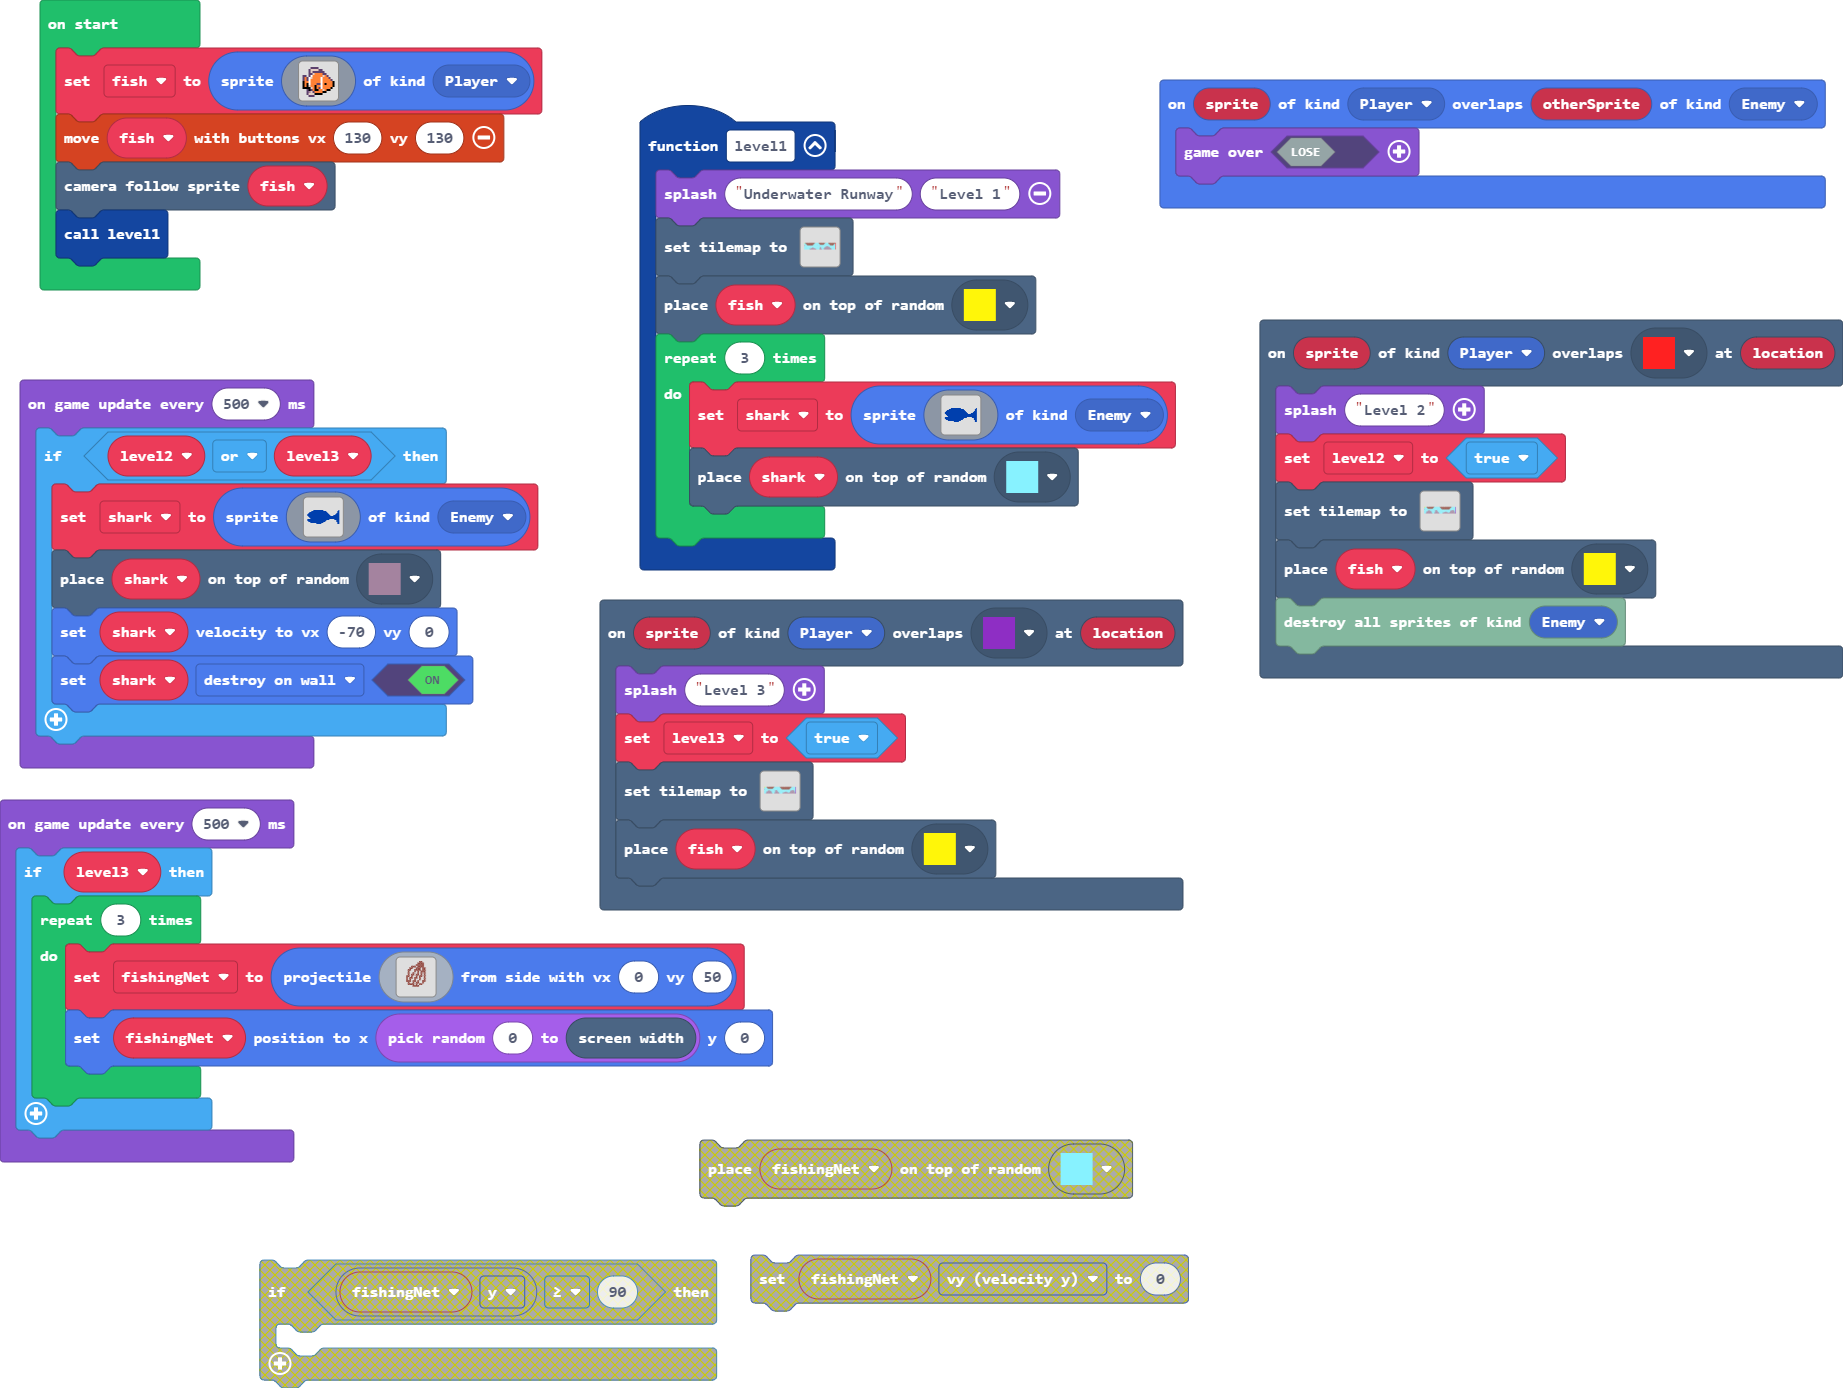
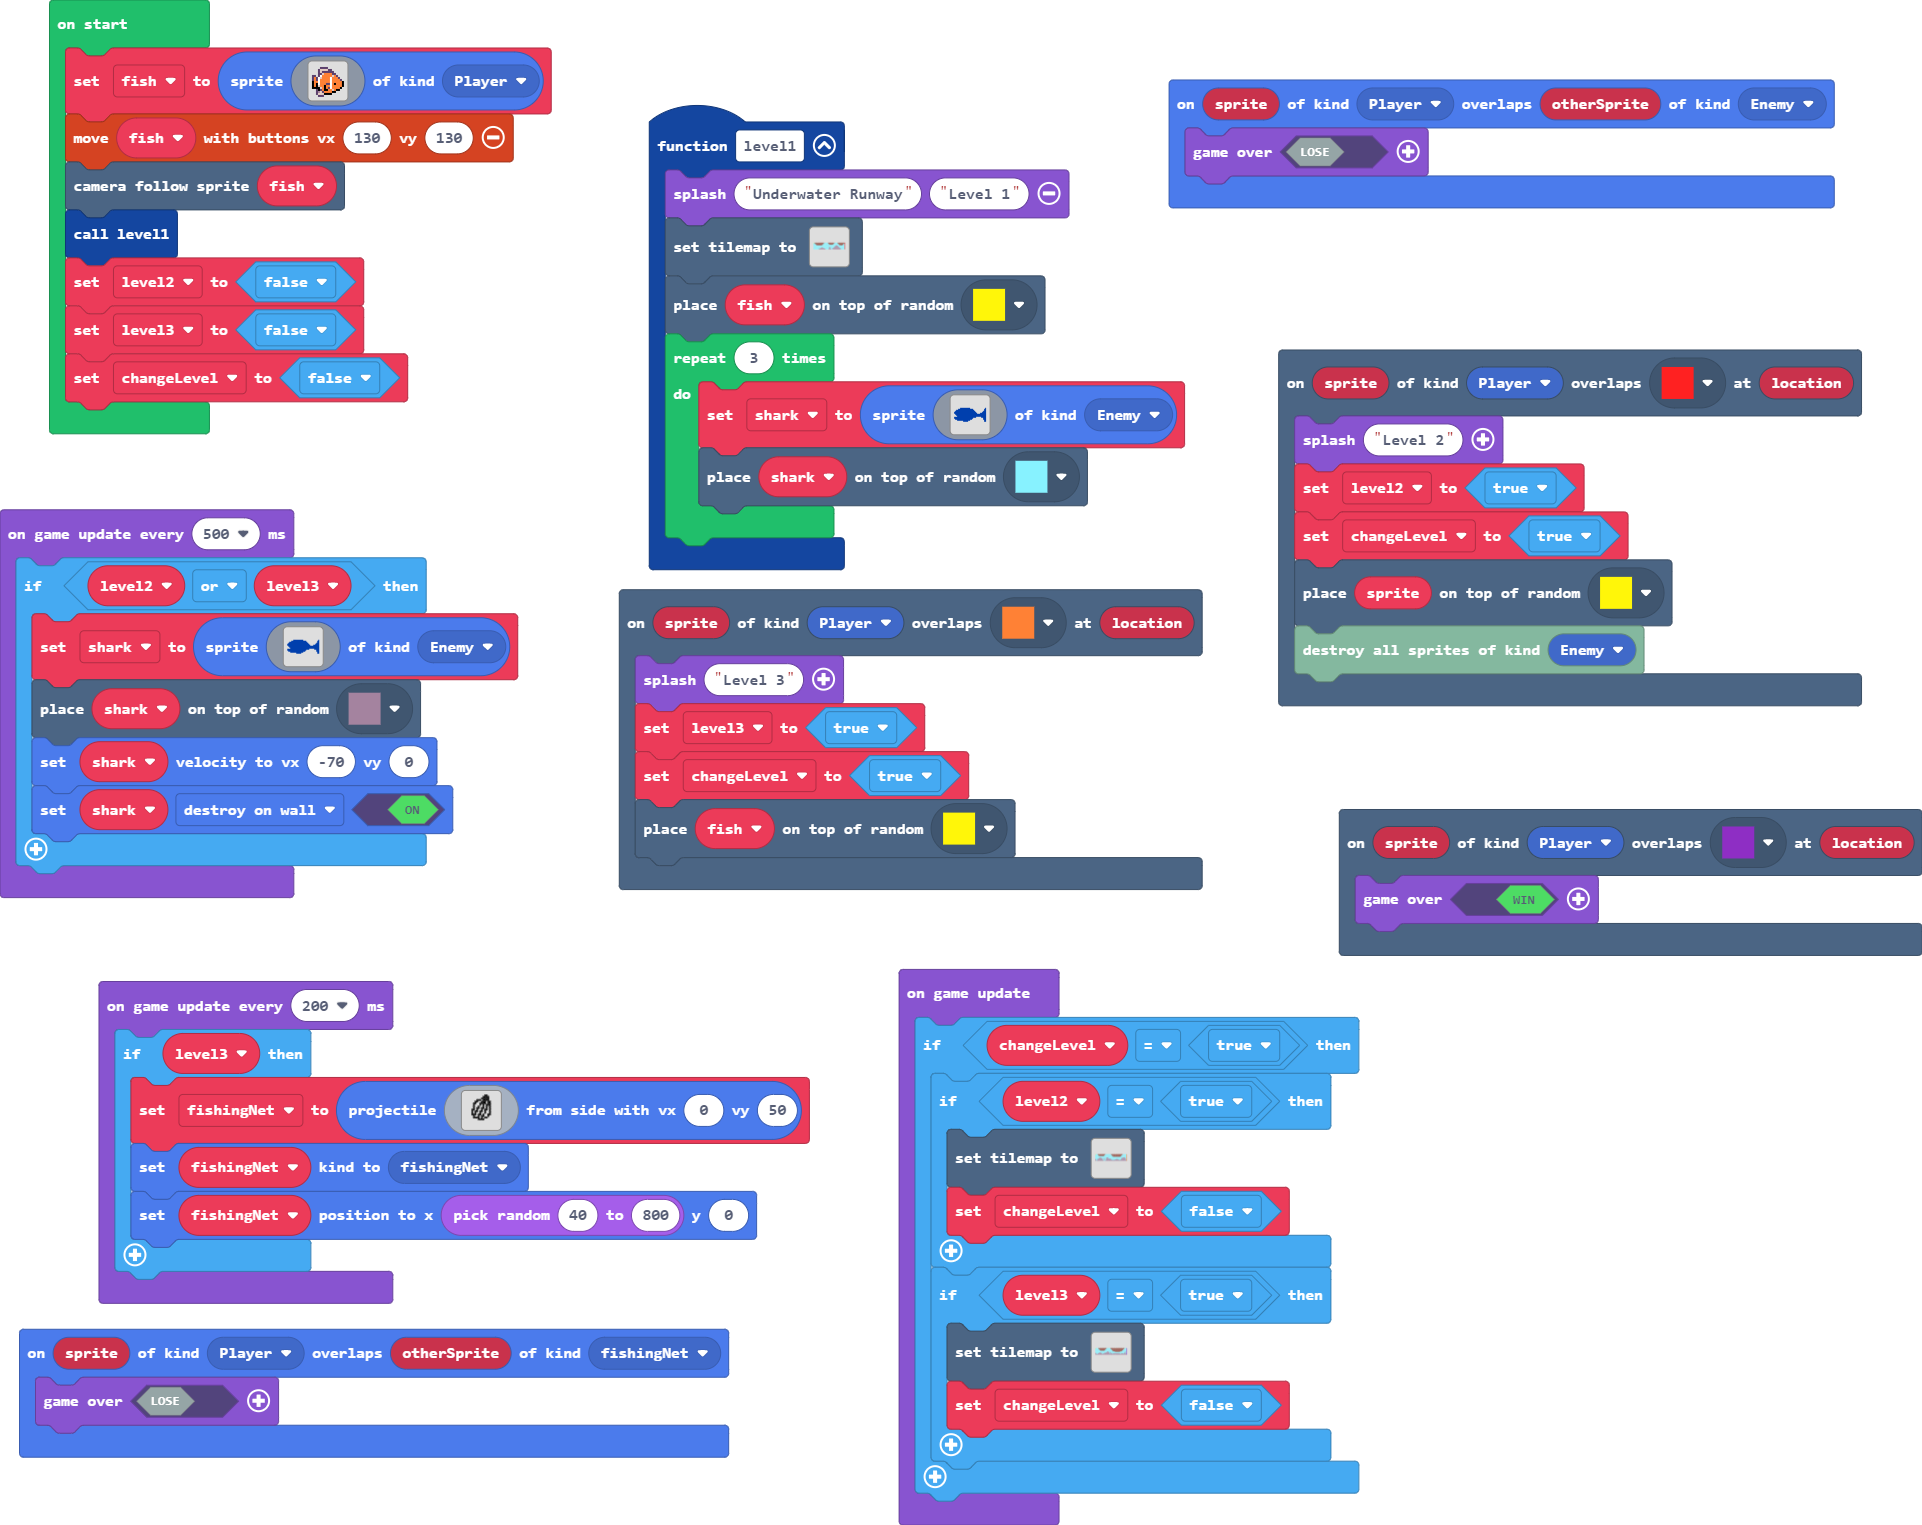
Update main.blocks, main.ts, tilemap.g.jres, tilemap.g.ts

diff --git a/tilemap.g.ts b/tilemap.g.ts
@@ -13,11 +13,11 @@ namespace myTiles {
     //% fixedInstance jres blockIdentity=images._tile
     export const tile5 = image.ofBuffer(hex``);
     //% fixedInstance jres blockIdentity=images._tile
-    export const tile6 = image.ofBuffer(hex``);
-    //% fixedInstance jres blockIdentity=images._tile
     export const tile7 = image.ofBuffer(hex``);
     //% fixedInstance jres blockIdentity=images._tile
     export const tile8 = image.ofBuffer(hex``);
+    //% fixedInstance jres blockIdentity=images._tile
+    export const tile11 = image.ofBuffer(hex``);
 
     helpers._registerFactory("tilemap", function(name: string) {
         switch(helpers.stringTrim(name)) {
@@ -97,19 +97,6 @@ namespace myTiles {
 . . . . . . . . . . . . . . . . 
 . . . . . . . . . . . . . . . . 
 `, [myTiles.transparency16], TileScale.Sixteen);
-            case "level1":
[1 lines of base64/hex data omitted]
-..222222222222222......2222222222.....22222222222.
-...2222222222222........22222222.......222222222..
-....22222222222..........222222.........2222222...
-.....222222222...........................22222....
-..................................................
-...................................222............
-.........................2.......2222222..........
-.............22..........22.....222222222.........
-...........222222........22....222222222222.......
-.........2222222222.....2222...222222222222.......
-`, [myTiles.transparency16,myTiles.tile1,myTiles.tile2,myTiles.tile3,myTiles.tile5,myTiles.tile7], TileScale.Sixteen);
             case "level7":
             case "level7":return tiles.createTilemap(hex`1000100000000000000000000000000000000000000000000000000000000000000000000000000000000000000000000000000000000000000000000000000000000000000000000000000000000000000000000000000000000000000000000000000000000000000000000000000000000000000000000000000000000000000000000000000000000000000000000000000000000000000000000000000000000000000000000000000000000000000000000000000000000000000000000000000000000000000000000000000000000000000000000000000000000000000000000000000000000000000000000000000000000000000000000000000000000000`, img`
 . . . . . . . . . . . . . . . . 
@@ -129,19 +116,83 @@ namespace myTiles {
 . . . . . . . . . . . . . . . . 
 . . . . . . . . . . . . . . . . 
 `, [myTiles.transparency16], TileScale.Sixteen);
+            case "level1":
[1 lines of base64/hex data omitted]
+..222222222222222......2222222222.....22222222222.
+...2222222222222........22222222.......222222222..
+....22222222222..........222222.........2222222...
+.....222222222...........................22222....
+...................................222............
+..................................22222...........
+.........................2.......2222222..........
+.............22..........22.....222222222.........
+...........222222........22...2222222222222.......
+.........2222222222.....2222..2222222222222.......
+`, [myTiles.transparency16,myTiles.tile1,myTiles.tile2,myTiles.tile3,myTiles.tile5,myTiles.tile7], TileScale.Sixteen);
             case "level4":
[2 lines of base64/hex data omitted]
 ....222222222222.........222222222222222222.......
 .....2222222222...........2222222222222222........
 ......22222222.............22222222222222.........
 ............................222222222222..........
 ..................................................
 .......22.........222......................2222...
-......22222......2222....................2222222..
-....22222222......2222............2......2222222..
-....22222222.....222222........222222...22222222..
-...2222222222...22222222.....22222222222222222222.
+......22222...2..2222....................2222222..
+2...22222222..2...2222222.........2......2222222..
+22..22222222..2..222222222.....222222...22222222..
+22.2222222222.2.222222222222222222222222222222222.
+`, [myTiles.transparency16,myTiles.tile1,myTiles.tile2,myTiles.tile3,myTiles.tile7,myTiles.tile11], TileScale.Sixteen);
+            case "level8":
[1 lines of base64/hex data omitted]
+.....2222222222222......2222222222222222222222....
+......22222222222........22222222222222222222.....
+.......222222222..........222222222222222222......
+........2222222............2222222222222222.......
+............................22222222222222........
+...................22..........22222222........2..
+..................2222..2......................2..
+2.....2222.....22222222.2.....................22..
+22...222222..2222222222.222.22222222222..222.222..
+2222222222222222222222222222222222222222222222222.
 `, [myTiles.transparency16,myTiles.tile1,myTiles.tile2,myTiles.tile3,myTiles.tile7,myTiles.tile8], TileScale.Sixteen);
+            case "level9":
+            case "level9":return tiles.createTilemap(hex`1000100000000000000000000000000000000000000000000000000000000000000000000000000000000000000000000000000000000000000000000000000000000000000000000000000000000000000000000000000000000000000000000000000000000000000000000000000000000000000000000000000000000000000000000000000000000000000000000000000000000000000000000000000000000000000000000000000000000000000000000000000000000000000000000000000000000000000000000000000000000000000000000000000000000000000000000000000000000000000000000000000000000000000000000000000000000000`, img`
+. . . . . . . . . . . . . . . . 
+. . . . . . . . . . . . . . . . 
+. . . . . . . . . . . . . . . . 
+. . . . . . . . . . . . . . . . 
+. . . . . . . . . . . . . . . . 
+. . . . . . . . . . . . . . . . 
+. . . . . . . . . . . . . . . . 
+. . . . . . . . . . . . . . . . 
+. . . . . . . . . . . . . . . . 
+. . . . . . . . . . . . . . . . 
+. . . . . . . . . . . . . . . . 
+. . . . . . . . . . . . . . . . 
+. . . . . . . . . . . . . . . . 
+. . . . . . . . . . . . . . . . 
+. . . . . . . . . . . . . . . . 
+. . . . . . . . . . . . . . . . 
+`, [myTiles.transparency16], TileScale.Sixteen);
+            case "level10":
+            case "level10":return tiles.createTilemap(hex`1000100000000000000000000000000000000000000000000000000000000000000000000000000000000000000000000000000000000000000000000000000000000000000000000000000000000000000000000000000000000000000000000000000000000000000000000000000000000000000000000000000000000000000000000000000000000000000000000000000000000000000000000000000000000000000000000000000000000000000000000000000000000000000000000000000000000000000000000000000000000000000000000000000000000000000000000000000000000000000000000000000000000000000000000000000000000000`, img`
+. . . . . . . . . . . . . . . . 
+. . . . . . . . . . . . . . . . 
+. . . . . . . . . . . . . . . . 
+. . . . . . . . . . . . . . . . 
+. . . . . . . . . . . . . . . . 
+. . . . . . . . . . . . . . . . 
+. . . . . . . . . . . . . . . . 
+. . . . . . . . . . . . . . . . 
+. . . . . . . . . . . . . . . . 
+. . . . . . . . . . . . . . . . 
+. . . . . . . . . . . . . . . . 
+. . . . . . . . . . . . . . . . 
+. . . . . . . . . . . . . . . . 
+. . . . . . . . . . . . . . . . 
+. . . . . . . . . . . . . . . . 
+. . . . . . . . . . . . . . . . 
+`, [myTiles.transparency16], TileScale.Sixteen);
         }
         return null;
     })
@@ -159,12 +210,12 @@ namespace myTiles {
             case "tile4":return tile4;
             case "myTile3":
             case "tile5":return tile5;
-            case "myTile4":
-            case "tile6":return tile6;
             case "myTile5":
             case "tile7":return tile7;
             case "myTile6":
             case "tile8":return tile8;
+            case "myTile9":
+            case "tile11":return tile11;
         }
         return null;
     })

diff --git a/main.ts b/main.ts
@@ -1,8 +1,8 @@
+namespace SpriteKind {
+    export const fishingNet = SpriteKind.create()
+}
 scene.onOverlapTile(SpriteKind.Player, assets.tile`myTile6`, function (sprite, location) {
-    game.splash("Level 3")
-    level3 = true
-    tiles.setTilemap(tilemap`level4`)
-    tiles.placeOnRandomTile(fish, assets.tile`myTile5`)
+    game.over(true)
 })
 function level1 () {
     game.splash("Underwater Runway", "Level 1")
@@ -46,20 +46,30 @@ function level1 () {
         tiles.placeOnRandomTile(shark, assets.tile`myTile`)
     }
 }
+scene.onOverlapTile(SpriteKind.Player, assets.tile`myTile9`, function (sprite, location) {
+    game.splash("Level 3")
+    level3 = true
+    changeLevel = true
+    tiles.placeOnRandomTile(fish, assets.tile`myTile5`)
+})
 scene.onOverlapTile(SpriteKind.Player, assets.tile`myTile3`, function (sprite, location) {
     game.splash("Level 2")
     level2 = true
-    tiles.setTilemap(tilemap`level4`)
-    tiles.placeOnRandomTile(fish, assets.tile`myTile5`)
+    changeLevel = true
+    tiles.placeOnRandomTile(sprite, assets.tile`myTile5`)
     tiles.destroySpritesOfKind(SpriteKind.Enemy)
+})
+sprites.onOverlap(SpriteKind.Player, SpriteKind.fishingNet, function (sprite, otherSprite) {
+    game.over(false)
 })
 sprites.onOverlap(SpriteKind.Player, SpriteKind.Enemy, function (sprite, otherSprite) {
     game.over(false)
 })
 let fishingNet: Sprite = null
-let level2 = false
 let shark: Sprite = null
+let changeLevel = false
 let level3 = false
+let level2 = false
 let fish: Sprite = null
 fish = sprites.create(img`
     . . . . . . . . . . . . . . . . 
@@ -82,6 +92,21 @@ fish = sprites.create(img`
 controller.moveSprite(fish, 130, 130)
 scene.cameraFollowSprite(fish)
 level1()
+level2 = false
+level3 = false
+changeLevel = false
+game.onUpdate(function () {
+    if (changeLevel == true) {
+        if (level2 == true) {
+            tiles.setTilemap(tilemap`level4`)
+            changeLevel = false
+        }
+        if (level3 == true) {
+            tiles.setTilemap(tilemap`level8`)
+            changeLevel = false
+        }
+    }
+})
 game.onUpdateInterval(500, function () {
     if (level2 || level3) {
         shark = sprites.create(img`
@@ -123,32 +148,31 @@ game.onUpdateInterval(500, function () {
         shark.setFlag(SpriteFlag.DestroyOnWall, true)
     }
 })
-game.onUpdateInterval(500, function () {
+game.onUpdateInterval(200, function () {
     if (level3) {
-        for (let index = 0; index < 3; index++) {
-            fishingNet = sprites.createProjectileFromSide(img`
-                ..........ee....
-                .........eeee...
-                ........eeeee...
-                .....eee.eeee...
-                ....ee..eee.ee..
-                ...ee..eeee.ee..
-                ...e...e.e.eee..
-                ...e..e..e.e.e..
-                ...e.ee.ee.e.e..
-                ..ee.e..e.ee.e..
-                ..e.ee.ee.e..e..
-                ..e.e..e..e..e..
-                ..eee.ee.e..ee..
-                ...e..e.ee..e...
-                ...eeee.e.ee....
-                ......eeee......
-                ................
-                ................
-                ................
-                ................
-                `, 0, 50)
-            fishingNet.setPosition(randint(0, scene.screenWidth()), 0)
-        }
+        fishingNet = sprites.createProjectileFromSide(img`
+            ..........ff....
+            .........ffff...
+            ........fffff...
+            .....fff.ffff...
+            ....ff..fff.ff..
+            ...ff..ffff.ff..
+            ...f...f.f.fff..
+            ...f..f..f.f.f..
+            ...f.ff.ff.f.f..
+            ..ff.f..f.ff.f..
+            ..f.ff.ff.f..f..
+            ..f.f..f..f..f..
+            ..fff.ff.f..ff..
+            ...f..f.ff..f...
+            ...ffff.f.ff....
+            ......ffff......
+            ................
+            ................
+            ................
+            ................
+            `, 0, 50)
+        fishingNet.setKind(SpriteKind.fishingNet)
+        fishingNet.setPosition(randint(40, 800), 0)
     }
 })
